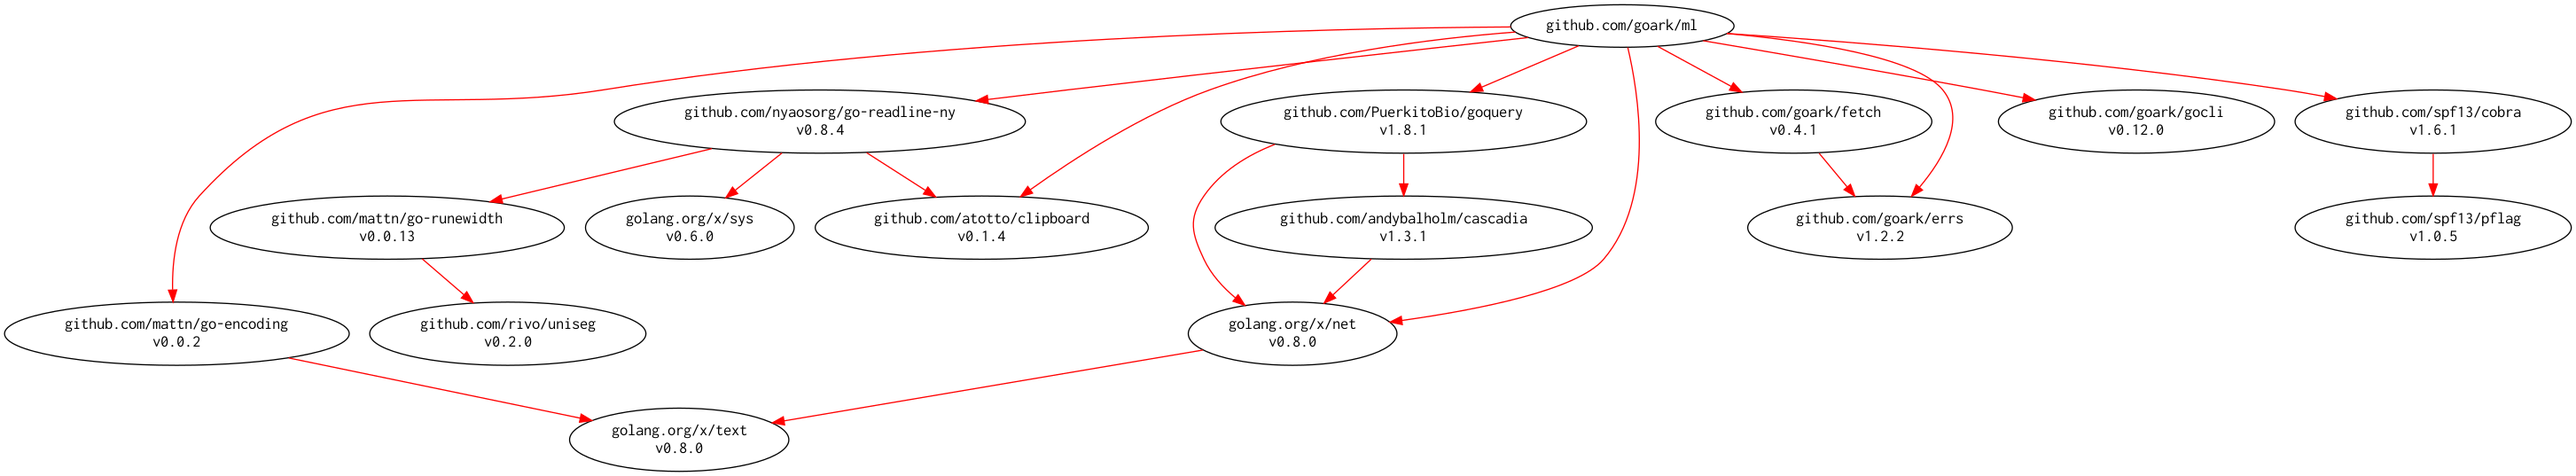
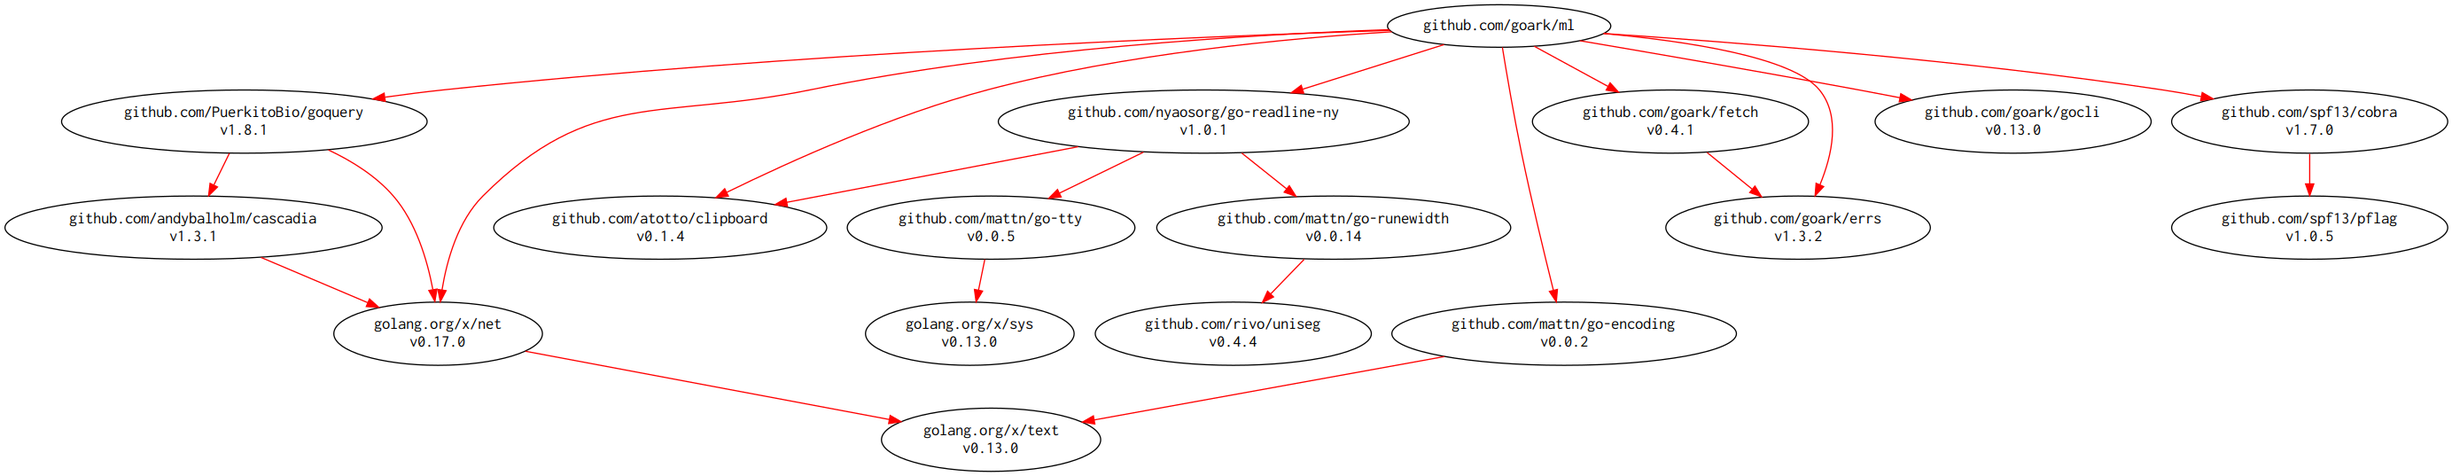
Bump up external packages

diff --git a/facade/interactive/interactive.go b/facade/interactive/interactive.go
@@ -15,9 +15,12 @@ import (
 )
 
 func Do(opts *options.Options) error {
-	editor := readline.Editor{
-		Prompt:  func() (int, error) { return fmt.Print("ml> ") },
-		History: opts.History(),
+	editor := &readline.Editor{
+		PromptWriter: func(w io.Writer) (int, error) {
+			return io.WriteString(w, "ml> ")
+		},
+		History:        opts.History(),
+		HistoryCycling: true,
 	}
 	ctx := signal.Context(context.Background(), os.Interrupt)
 	fmt.Println("Input 'q' or 'quit' to stop")
